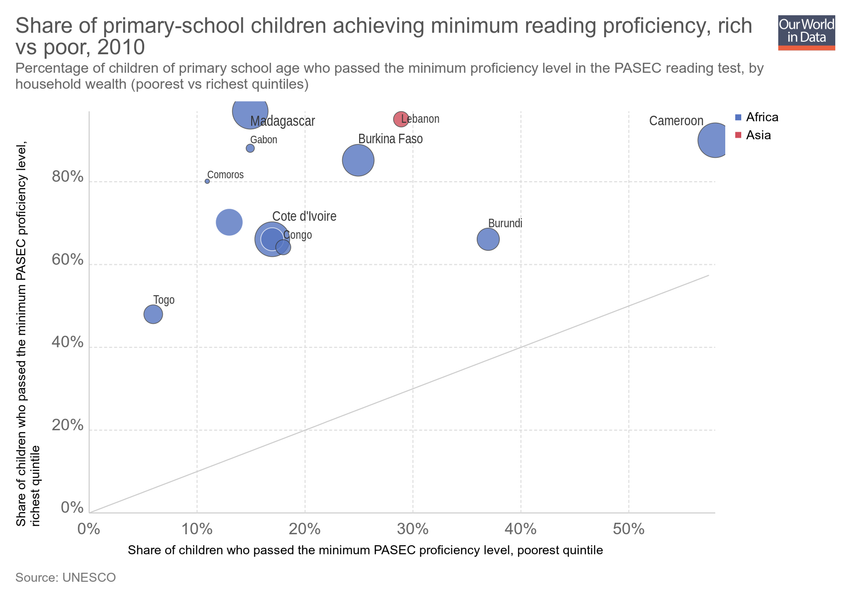
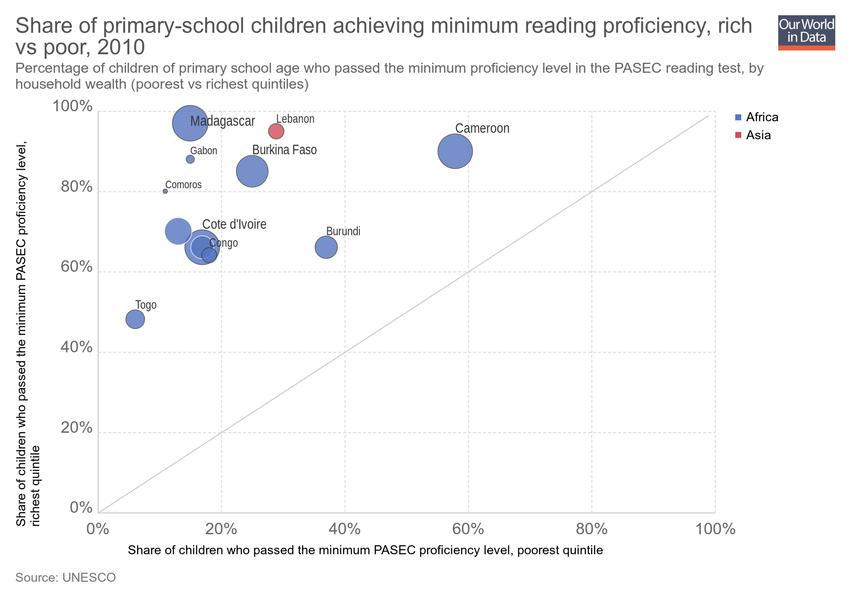
Updating chart share-of-primary-school-children-achieving-minimum-reading-proficiency-rich-vs-poor

diff --git a/grapher/share-of-primary-school-children-achieving-minimum-reading-proficiency-rich-vs-poor.html b/grapher/share-of-primary-school-children-achieving-minimum-reading-proficiency-rich-vs-poor.html
@@ -1,4 +1,4 @@
-<!doctype html><html><head><meta name="viewport" content="width=device-width, initial-scale=1" /><title>Share of primary-school children achieving minimum reading proficiency, rich vs poor - Our World in Data</title><meta name="description" content="Percentage of children of primary school age who passed the minimum proficiency level in the PASEC reading test, by  household wealth (poorest vs richest quintiles)" /><link rel="canonical" href="https://ourworldindata.org/grapher/share-of-primary-school-children-achieving-minimum-reading-proficiency-rich-vs-poor" /><meta property="fb:app_id" content="1149943818390250" /><meta property="og:url" content="https://ourworldindata.org/grapher/share-of-primary-school-children-achieving-minimum-reading-proficiency-rich-vs-poor" /><meta property="og:title" content="Share of primary-school children achieving minimum reading proficiency, rich vs poor" /><meta property="og:description" content="Percentage of children of primary school age who passed the minimum proficiency level in the PASEC reading test, by  household wealth (poorest vs richest quintiles)" /><meta property="og:image" content="https://ourworldindata.org/grapher/exports/share-of-primary-school-children-achieving-minimum-reading-proficiency-rich-vs-poor.png?v=1" /><meta property="og:image:width" content="850" /><meta property="og:image:height" content="600" /><meta property="og:site_name" content="Our World in Data" /><meta name="twitter:card" content="summary_large_image" /><meta name="twitter:site" content="@OurWorldInData" /><meta name="twitter:creator" content="@OurWorldInData" /><meta name="twitter:title" content="Share of primary-school children achieving minimum reading proficiency, rich vs poor" /><meta name="twitter:description" content="Percentage of children of primary school age who passed the minimum proficiency level in the PASEC reading test, by  household wealth (poorest vs richest quintiles)" /><meta name="twitter:image" content="https://ourworldindata.org/grapher/exports/share-of-primary-school-children-achieving-minimum-reading-proficiency-rich-vs-poor.png?v=1" /><style>
+<!doctype html><html><head><meta name="viewport" content="width=device-width, initial-scale=1" /><title>Share of primary-school children achieving minimum reading proficiency, rich vs poor - Our World in Data</title><meta name="description" content="Percentage of children of primary school age who passed the minimum proficiency level in the PASEC reading test, by  household wealth (poorest vs richest quintiles)" /><link rel="canonical" href="https://ourworldindata.org/grapher/share-of-primary-school-children-achieving-minimum-reading-proficiency-rich-vs-poor" /><meta property="fb:app_id" content="1149943818390250" /><meta property="og:url" content="https://ourworldindata.org/grapher/share-of-primary-school-children-achieving-minimum-reading-proficiency-rich-vs-poor" /><meta property="og:title" content="Share of primary-school children achieving minimum reading proficiency, rich vs poor" /><meta property="og:description" content="Percentage of children of primary school age who passed the minimum proficiency level in the PASEC reading test, by  household wealth (poorest vs richest quintiles)" /><meta property="og:image" content="https://ourworldindata.org/grapher/exports/share-of-primary-school-children-achieving-minimum-reading-proficiency-rich-vs-poor.png?v=2" /><meta property="og:image:width" content="850" /><meta property="og:image:height" content="600" /><meta property="og:site_name" content="Our World in Data" /><meta name="twitter:card" content="summary_large_image" /><meta name="twitter:site" content="@OurWorldInData" /><meta name="twitter:creator" content="@OurWorldInData" /><meta name="twitter:title" content="Share of primary-school children achieving minimum reading proficiency, rich vs poor" /><meta name="twitter:description" content="Percentage of children of primary school age who passed the minimum proficiency level in the PASEC reading test, by  household wealth (poorest vs richest quintiles)" /><meta name="twitter:image" content="https://ourworldindata.org/grapher/exports/share-of-primary-school-children-achieving-minimum-reading-proficiency-rich-vs-poor.png?v=2" /><style>
         html, body {
             height: 100%;
             margin: 0;
@@ -20,8 +20,8 @@
         }
     </style><noscript><style>
                     figure { display: none !important; }
-                </style></noscript><link rel="stylesheet" href="https://ourworldindata.org/grapher/assets/commons.bundle.aac21d725a915c387ab8.css" /><link rel="preload" href="/grapher/data/variables/97926+97925+72+123.json?v=1" as="fetch" crossorigin /></head><body class="singleChart"><figure data-grapher-src="/grapher/share-of-primary-school-children-achieving-minimum-reading-proficiency-rich-vs-poor"></figure><noscript id="fallback"><img src="/grapher/exports/share-of-primary-school-children-achieving-minimum-reading-proficiency-rich-vs-poor.svg" /><p>Interactive visualization requires JavaScript</p></noscript><script src="https://cdn.polyfill.io/v2/polyfill.min.js?features=es6,fetch"></script><script src="https://ourworldindata.org/grapher/assets/commons.bundle.aac21d725a915c387ab8.js"></script><script src="https://ourworldindata.org/grapher/assets/charts.bundle.aac21d725a915c387ab8.js"></script><script>
-        var jsonConfig = {"map":{"projection":"World","colorSchemeLabels":[],"colorSchemeValues":[],"customNumericColors":[],"customCategoryColors":{},"customCategoryLabels":{},"customHiddenCategories":{}},"tab":"chart","slug":"share-of-primary-school-children-achieving-minimum-reading-proficiency-rich-vs-poor","type":"ScatterPlot","title":"Share of primary-school children achieving minimum reading proficiency, rich vs poor","xAxis":{"min":0,"scaleType":"linear"},"yAxis":{"min":0,"scaleType":"linear"},"maxTime":2010,"minTime":2010,"version":1,"subtitle":"Percentage of children of primary school age who passed the minimum proficiency level in the PASEC reading test, by  household wealth (poorest vs richest quintiles)","hasMapTab":false,"stackMode":"absolute","dimensions":[{"display":{"name":"Share of children who passed the minimum PASEC proficiency level, richest quintile","tolerance":5},"property":"y","variableId":97926},{"display":{"name":"Share of children who passed the minimum PASEC proficiency level, poorest quintile","tolerance":5},"property":"x","variableId":97925},{"display":{},"property":"size","variableId":72},{"display":{},"property":"color","variableId":123}],"isAutoSlug":true,"hasChartTab":true,"isPublished":true,"selectedData":[],"comparisonLine":{},"id":3000};
+                </style></noscript><link rel="stylesheet" href="https://ourworldindata.org/grapher/assets/commons.bundle.aac21d725a915c387ab8.css" /><link rel="preload" href="/grapher/data/variables/97926+97925+72+123.json?v=2" as="fetch" crossorigin /></head><body class="singleChart"><figure data-grapher-src="/grapher/share-of-primary-school-children-achieving-minimum-reading-proficiency-rich-vs-poor"></figure><noscript id="fallback"><img src="/grapher/exports/share-of-primary-school-children-achieving-minimum-reading-proficiency-rich-vs-poor.svg" /><p>Interactive visualization requires JavaScript</p></noscript><script src="https://cdn.polyfill.io/v2/polyfill.min.js?features=es6,fetch"></script><script src="https://ourworldindata.org/grapher/assets/commons.bundle.aac21d725a915c387ab8.js"></script><script src="https://ourworldindata.org/grapher/assets/charts.bundle.aac21d725a915c387ab8.js"></script><script>
+        var jsonConfig = {"id":3000,"map":{"projection":"World","colorSchemeLabels":[],"colorSchemeValues":[],"customNumericColors":[],"customCategoryColors":{},"customCategoryLabels":{},"customHiddenCategories":{}},"tab":"chart","slug":"share-of-primary-school-children-achieving-minimum-reading-proficiency-rich-vs-poor","type":"ScatterPlot","title":"Share of primary-school children achieving minimum reading proficiency, rich vs poor","xAxis":{"max":100,"min":0,"scaleType":"linear"},"yAxis":{"max":100,"min":0,"scaleType":"linear"},"maxTime":2010,"minTime":2010,"version":2,"subtitle":"Percentage of children of primary school age who passed the minimum proficiency level in the PASEC reading test, by  household wealth (poorest vs richest quintiles)","hasMapTab":false,"stackMode":"absolute","dimensions":[{"display":{"name":"Share of children who passed the minimum PASEC proficiency level, richest quintile","tolerance":5},"property":"y","variableId":97926},{"display":{"name":"Share of children who passed the minimum PASEC proficiency level, poorest quintile","tolerance":5},"property":"x","variableId":97925},{"display":{},"property":"size","variableId":72},{"display":{},"property":"color","variableId":123}],"hasChartTab":true,"isPublished":true,"selectedData":[],"comparisonLine":{}};
         var figure = document.getElementsByTagName("figure")[0];
         try {
             window.App = {};
